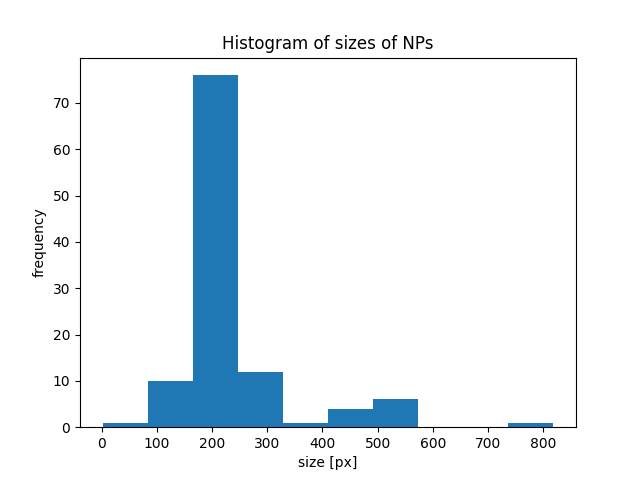
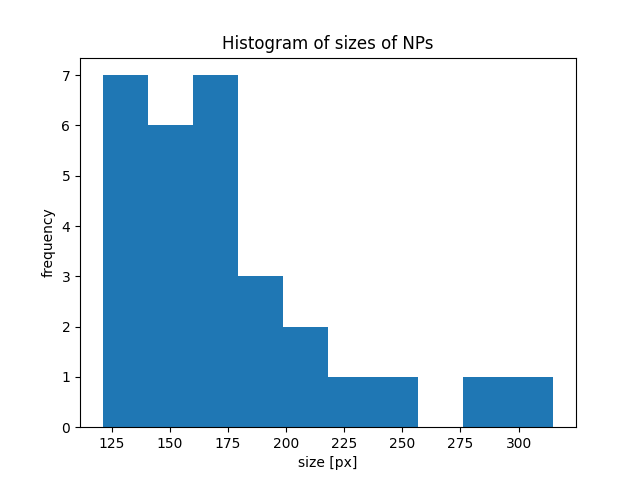
pixel size

diff --git a/img_fcn.py b/img_fcn.py
@@ -11,7 +11,9 @@ from skimage.filters import threshold_otsu
 from skimage.color import rgb2gray
 from skimage.segmentation import watershed
 from skimage.feature import peak_local_max
-from skimage.transform import rescale, hough_circle, hough_circle_peaks
+from skimage.transform import (
+    rescale, hough_circle, hough_circle_peaks, hough_line
+)
 from skimage.measure import regionprops, regionprops_table
 import json
 import os
@@ -39,43 +41,66 @@ def load_inputs(img_path, json_path):
     return input_description
 
 
-def loading_img(img_path):
+def loading_img(img_path, scale):
     """Function for loading image from given file and croping it
 
     Args:
         img_path (str): path to image file
+        scale (int): scale from microscope
 
     Returns:
         numpy.ndarray: RGB image
+        flaot: size of pixel in raw image
     """
 
     img_raw = imread(img_path)
+
+    line = img_raw[-100:, :]
+    line = rgb2gray(line)
+    thresh = threshold_otsu(line)
+    line = line > thresh
+    tested_angles = np.linspace(-np.pi / 2,
+                np.pi / 2, 360, endpoint=False)
+    _, _, distance = hough_line(line, theta=tested_angles)
+    length = distance[-1] - distance[0]
+    pixel_size = scale / length
+
     img_raw = img_raw[0:-100, :]
 
-    return img_raw
+    return img_raw, pixel_size
 
 
 
-def filtering_img(img_raw):
+def filtering_img(img_raw, scale, type, pixel_size):
     """Function for bluring image and edge detection
 
     Args:
         img_raw (numpy.ndarray): RGB image
+        scale (int): scale from microscopy image
+        type (str): nanoparticles or nanorods
+        pixel_size (float): size of one pixel in raw image in nm
 
     Returns:
         numpy.ndarray: grayscale image
+        float: rescaled pixel size
 
     """
     img_raw = rgb2gray(img_raw)
     img_raw = rescale(img_raw, 0.5)
+    pixel_size *= 2
 
+    if scale < 200:
+        kernel = morphology.disk(5)
+    else:
+        kernel = morphology.disk(3)
+    
     img_filtered = filters.median(
-                    img_raw, morphology.disk(3))
+                    img_raw, kernel)
 
     thresh = threshold_otsu(img_filtered)
     binary = img_filtered < thresh
 
-    return binary
+    return binary, pixel_size
 
 
 
@@ -133,6 +158,7 @@ def ploting_img(img_median, binary, distance, labels):
 
     plt.show()
 
+
 def saving_img(img, directory = '/results/labels.png'):
     """Function for saving labeled image into given directory.
 
@@ -149,7 +175,7 @@ def saving_img(img, directory = '/results/labels.png'):
     img = color_map(img)
     img = img*255
     img[ind[:, 0], ind[:, 1], 3] = 0
-    cv2.imwrite('/results/labels_transparent.png', img)
+    cv2.imwrite('results/labels_transparent.png', img)
     img[ind[:, 0], ind[:, 1], :] = 0
     img[:, :, 3] = 255
     cv2.imwrite(directory, img)
@@ -159,48 +185,49 @@ def saving_img(img, directory = '/results/labels.png'):
     return filename
 
 
-def calculation(labeled, scale, np_type):
+def calculation(labeled, pixel_size, np_type):
     """_summary_
 
     Args:
         labeled (numpy array): labeled image
-        scale (int): microscope image scale
+        pixel_size (float): size of one pixel in image
         np_type (string): nanoparticles or nanorods
 
     Returns:
         _type_: _description_
     """
 
-    sizes = []
-    sum_sizes = 0
-
-    if np_type == 'Nanoparticles':
+    if np_type.lower() == 'nanoparticles':
 
         props = regionprops_table(labeled, properties =
             ['label', 'area_convex', 'equivalent_diameter_area'])
 
-        with open('/results/props.txt', 'w') as txt_file:
+        with open('results/props.txt', 'w') as txt_file:
             txt_file.write('number area diameter')
 
             for i in range(len(props['label'])):
                 txt_file.write('\n')
                 for key_val in props.keys():
+                    if key_val != 'label':
+                        props[key_val][i] *= pixel_size
                     txt_file.write(str(props[key_val][i])+' ')
 
 
 
-    if np_type == 'Nanorods':
+    if np_type.lower() == 'nanorods':
 
         props = regionprops_table(labeled, properties =
                 ['label', 'area_convex', 'axis_major_length',
                                         'axis_minor_length'])
 
-        with open('/results/props.txt', 'w') as txt_file:
+        with open('results/props.txt', 'w') as txt_file:
             txt_file.write('number area major_axis minor_axis')
 
             for i in range(len(props['label'])):
                 txt_file.write('\n')
                 for key_val in props.keys():
+                    if key_val != 'label':
+                        props[key_val][i] *= pixel_size
                     txt_file.write(str(props[key_val][i])+' ')
 
 
@@ -209,7 +236,7 @@ def calculation(labeled, scale, np_type):
     plt.title('Histogram of sizes of NPs')
     plt.xlabel('size [px]')
     plt.ylabel('frequency')
-    plt.savefig('/results/histogram.png')
+    plt.savefig('results/histogram.png')
     plt.clf()
 
     avg = round(sum(props['area_convex']) / len(props['area_convex']), 4)
@@ -228,10 +255,16 @@ if __name__ == '__main__':
 
         img_path = input_description[image][2]
 
-        img_raw = loading_img(img_path)
+        img_raw, pixel_size = loading_img(
+            img_path, int(input_description[image][0]))
 
-        binary = filtering_img(img_raw)
+        binary, pixel_size = filtering_img(
+            img_raw, int(input_description[image][0]),
+            input_description[image][1], pixel_size)
 
         labels, distance = watershed_transform(binary)
 
-        ploting_img(img_raw, binary, distance, labels)
+        file_name = saving_img(labels)
+
+        avg = calculation(labels, pixel_size,
+            input_description[image][1])
